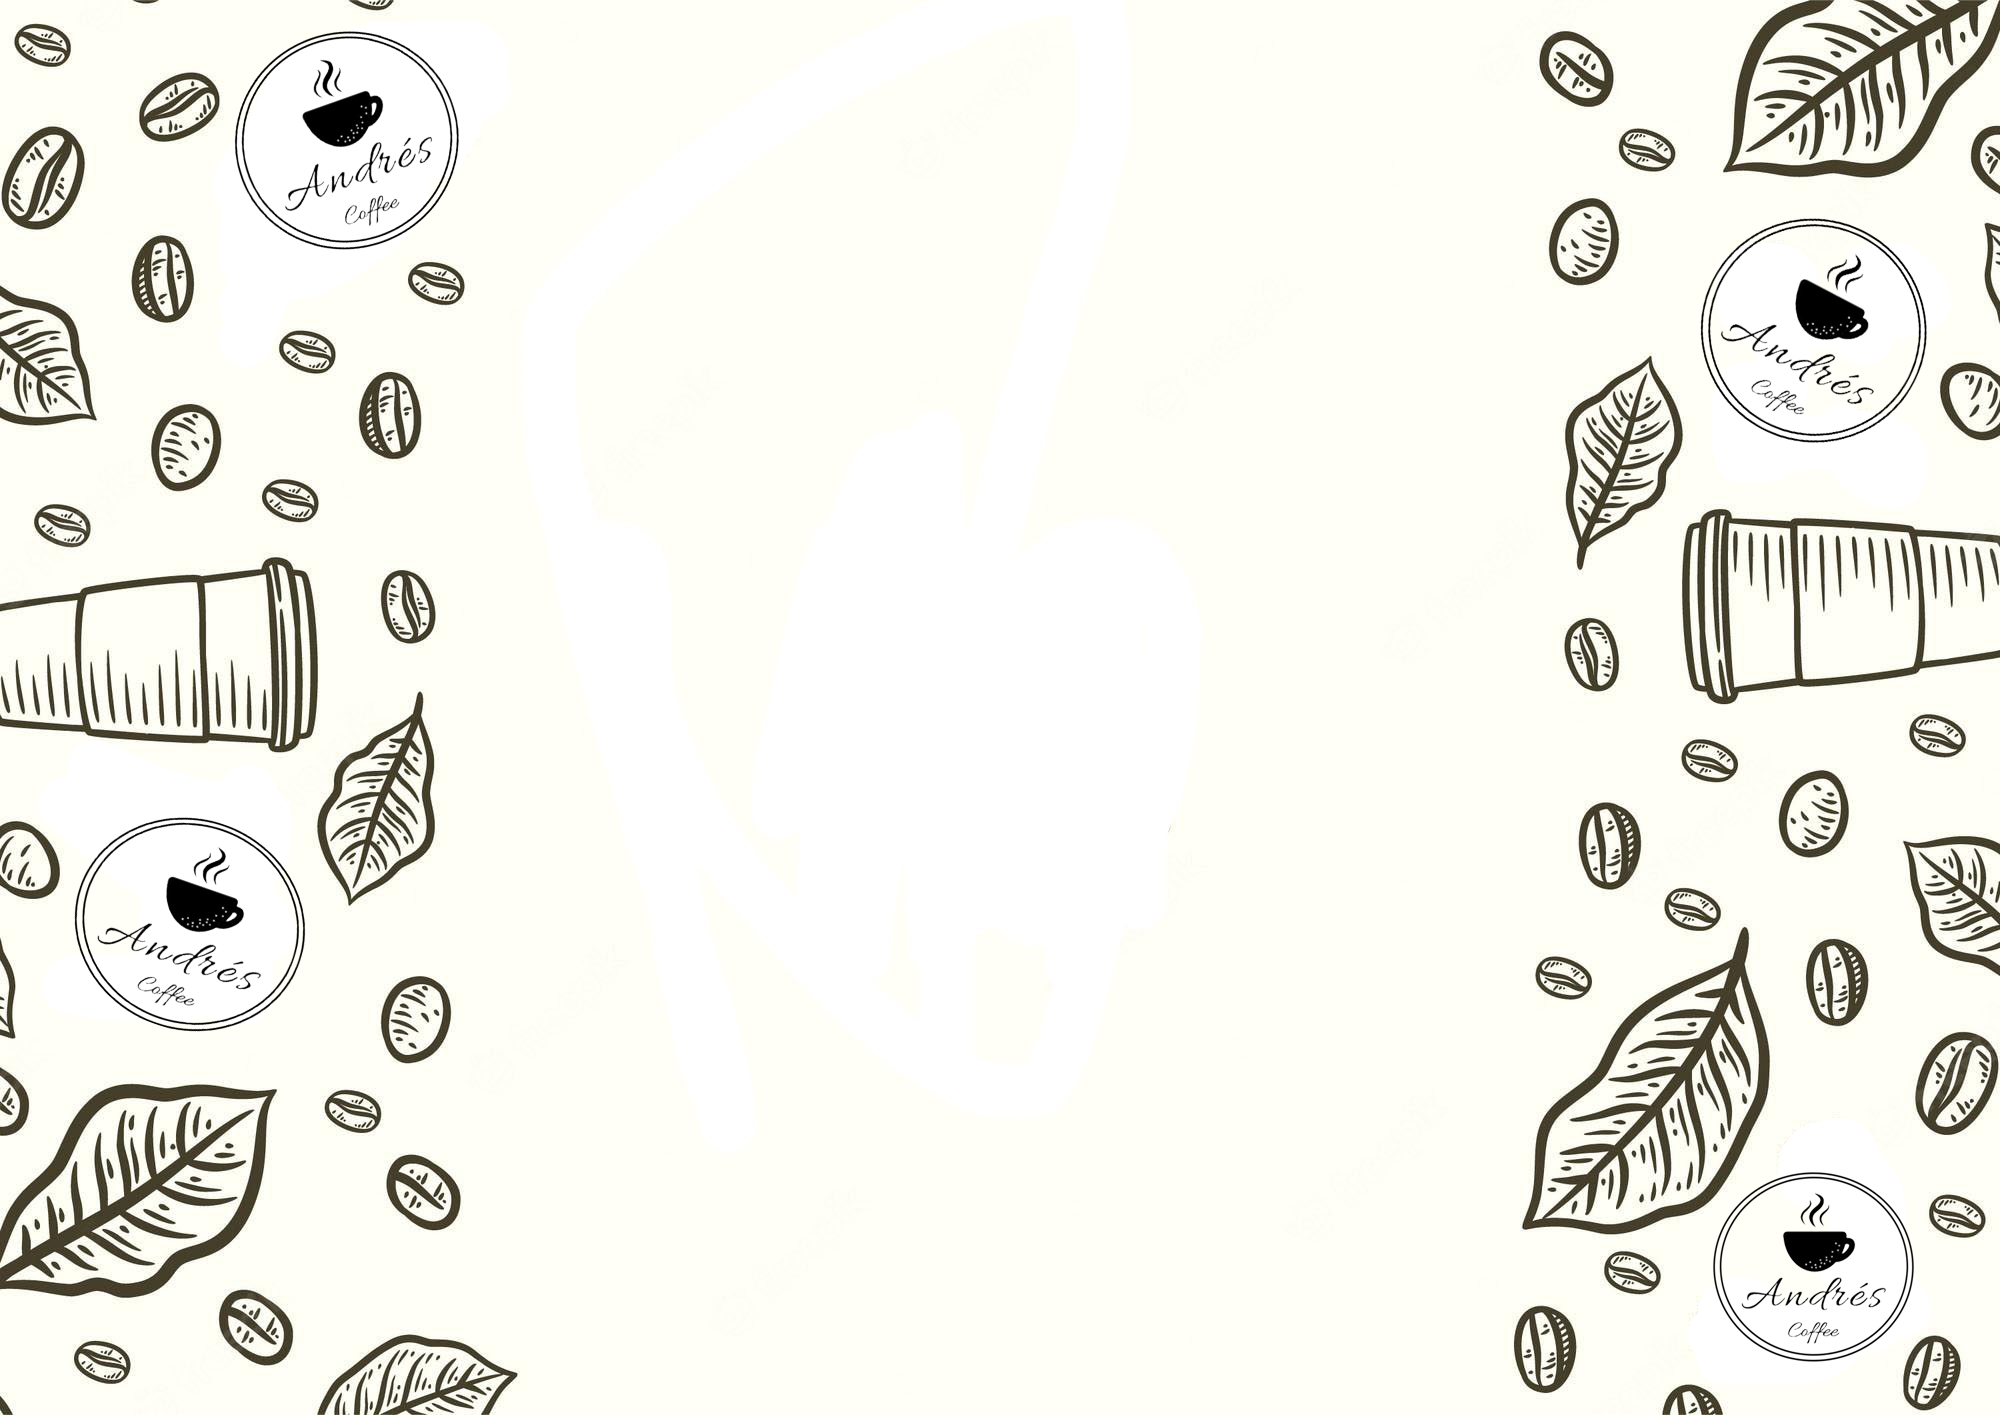
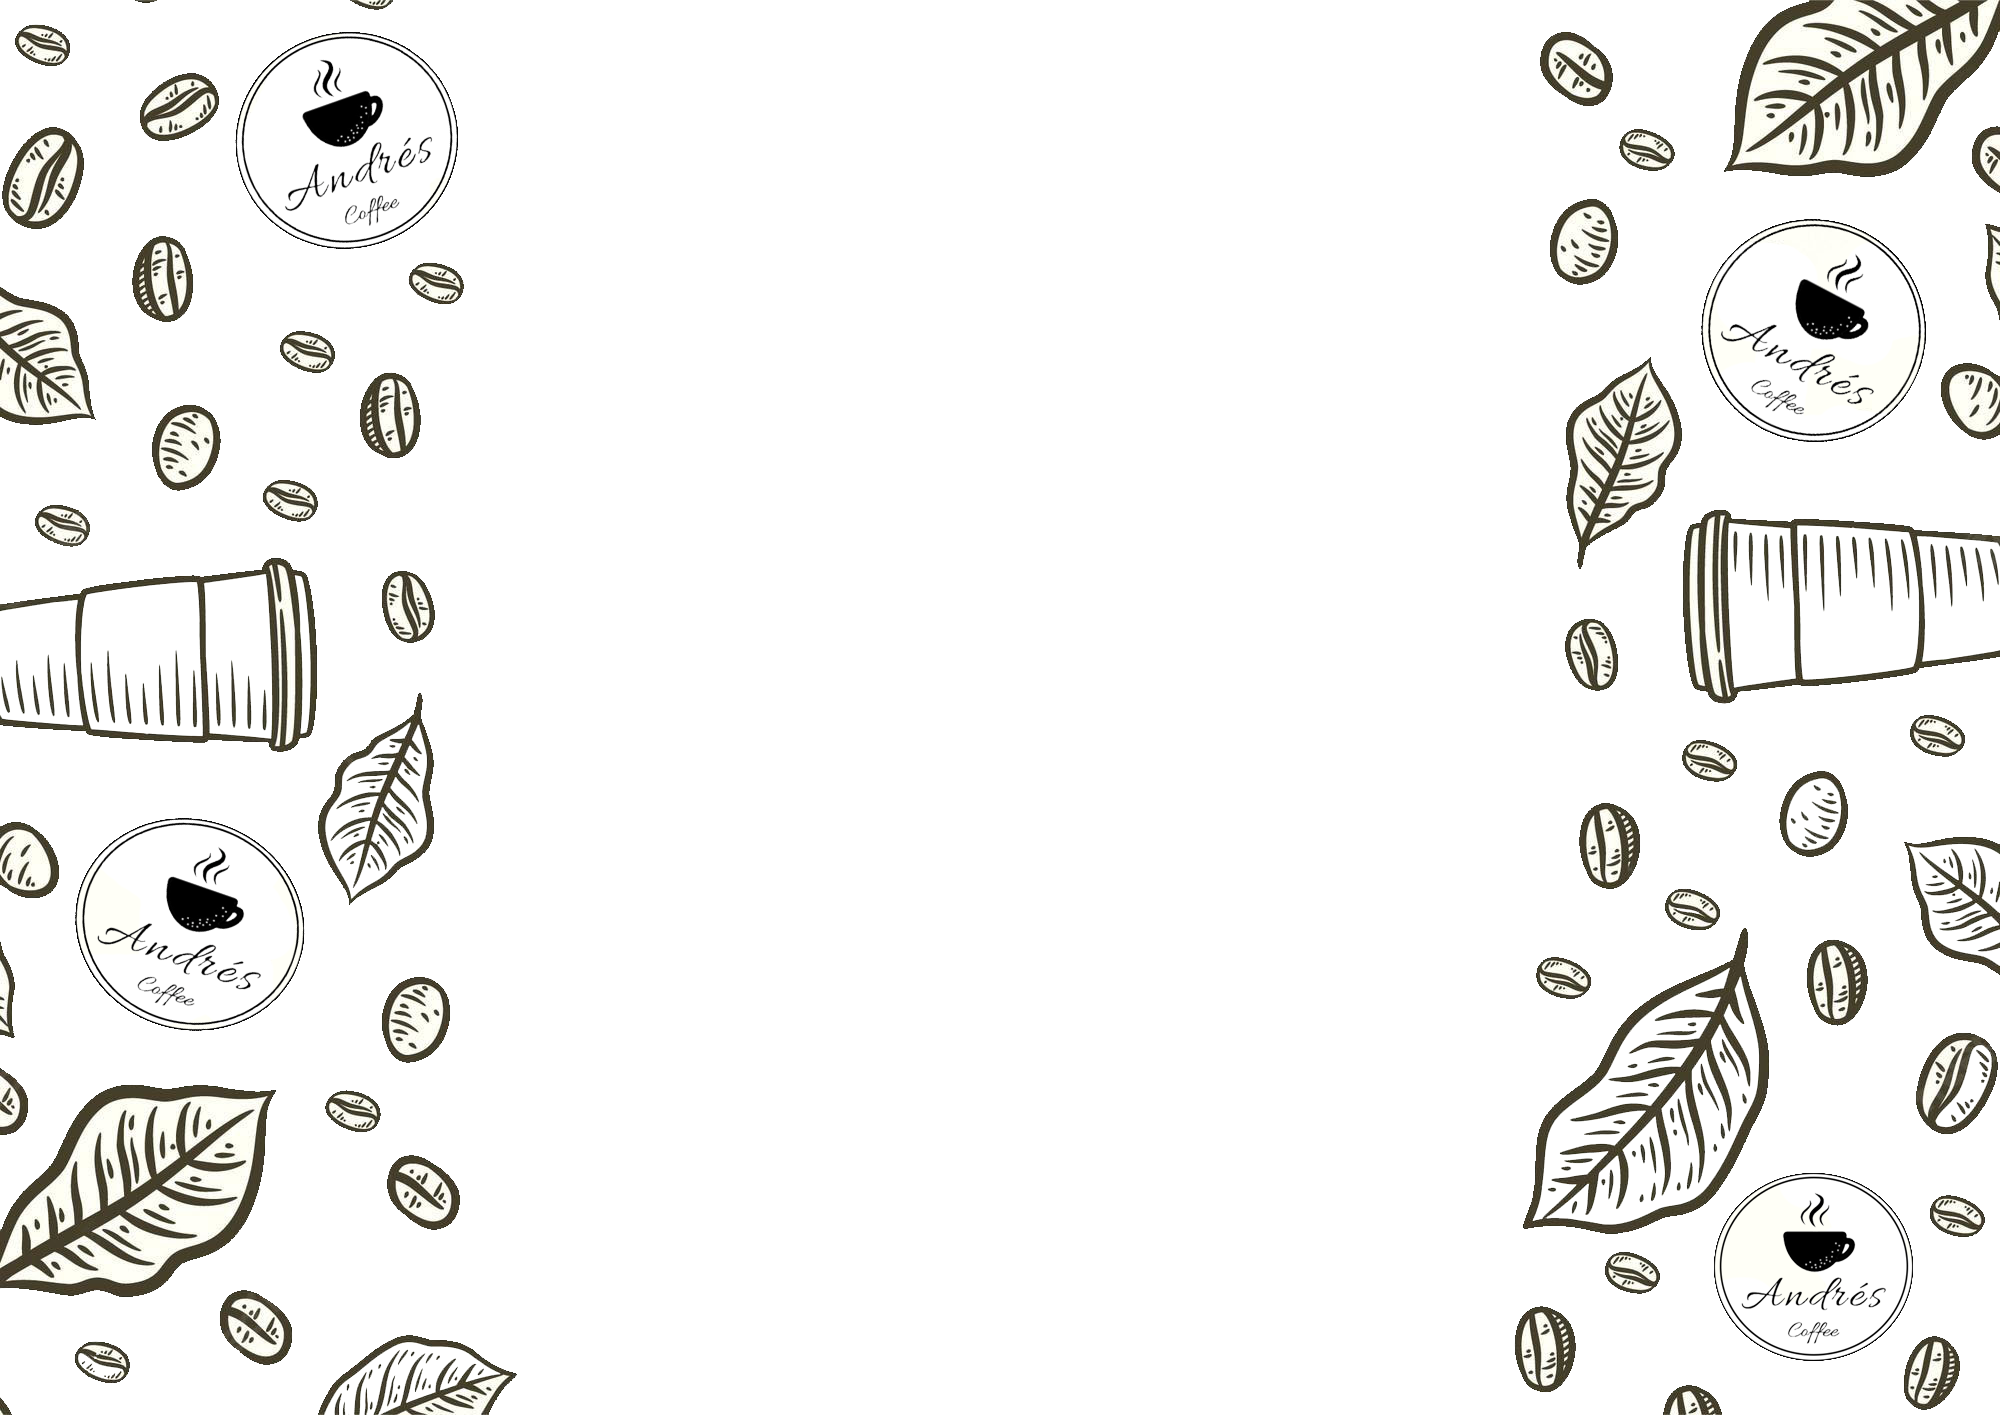
Nuevas hojas de estilos, y cambio de fondos hecho por Angela

diff --git a/public/style_admin.css b/public/style_admin.css
@@ -1,5 +1,5 @@
 body{
-    background-image: url("img/fondo.png");
+    background-image: url("img/fondo_admin.jpeg");
     background-repeat: no-repeat;
     background-attachment: fixed;
     background-size: cover;

diff --git a/public/style_home.css b/public/style_home.css
@@ -1,0 +1,7 @@
+body{
+    background-image: url("img/fondo_inicio.png");
+    background-repeat: no-repeat;
+    background-attachment: fixed;
+    background-size: cover;
+    height: 20em;
+}

diff --git a/public/style_seguridad.css b/public/style_seguridad.css
@@ -1,0 +1,7 @@
+body{
+    background-image: url("img/fondo_seg.jpeg");
+    background-repeat: no-repeat;
+    background-attachment: fixed;
+    background-size: cover;
+    height: 20em;
+}

diff --git a/vista/inicio/inicio.php b/vista/inicio/inicio.php
@@ -13,10 +13,9 @@ if(empty($_SESSION['usuario_login'])){
     <title>Administraciones</title>
     <link href="https://cdn.jsdelivr.net/npm/bootstrap@5.2.1/dist/css/bootstrap.min.css" rel="stylesheet" integrity="sha384-iYQeCzEYFbKjA/T2uDLTpkwGzCiq6soy8tYaI1GyVh/UjpbCx/TYkiZhlZB6+fzT" crossorigin="anonymous">
     <script src="https://kit.fontawesome.com/21445fda3d.js" crossorigin="anonymous"></script>
-    <link rel="stylesheet" type="text/css" href="../../public/style_inicio.css">
+    <link rel="stylesheet" type="text/css" href="../../public/style_home.css">
     <link rel="stylesheet" href="administracion_usuarios.css">
     <link rel="shortcut icon" href="../../public/img/Logo.png">
-
 </head>
 
 <body>

diff --git a/vista/administracion/administraciones/administracion_sucursal_promocion/administracion_sucursal_promocion.php b/vista/administracion/administraciones/administracion_sucursal_promocion/administracion_sucursal_promocion.php
@@ -13,7 +13,7 @@ if(empty($_SESSION['usuario_login'])){
     <title>Administración Sucursal Promoción</title>
     <link href="https://cdn.jsdelivr.net/npm/bootstrap@5.2.1/dist/css/bootstrap.min.css" rel="stylesheet" integrity="sha384-iYQeCzEYFbKjA/T2uDLTpkwGzCiq6soy8tYaI1GyVh/UjpbCx/TYkiZhlZB6+fzT" crossorigin="anonymous">
     <script src="https://kit.fontawesome.com/02575225aa.js" crossorigin="anonymous"></script>
-    <link rel="stylesheet" type="text/css" href="../../../../public/style_inicio.css">
+    <link rel="stylesheet" type="text/css" href="../../../../public/style_admin.css">
     <link rel="shortcut icon" href="../../../../public/img/Logo.png">
 </head>
 

diff --git a/vista/administracion/administraciones/administracion_sucursal_promocion/buscar_sucursal_promocion.php b/vista/administracion/administraciones/administracion_sucursal_promocion/buscar_sucursal_promocion.php
@@ -13,7 +13,7 @@ if(empty($_SESSION['usuario_login'])){
     <title>Administración Sucursal Promoción</title>
     <link href="https://cdn.jsdelivr.net/npm/bootstrap@5.2.1/dist/css/bootstrap.min.css" rel="stylesheet" integrity="sha384-iYQeCzEYFbKjA/T2uDLTpkwGzCiq6soy8tYaI1GyVh/UjpbCx/TYkiZhlZB6+fzT" crossorigin="anonymous">
     <script src="https://kit.fontawesome.com/02575225aa.js" crossorigin="anonymous"></script>
-    <link rel="stylesheet" type="text/css" href="../../../../public/style_inicio.css">
+    <link rel="stylesheet" type="text/css" href="../../../../public/style_admin.css">
     <link rel="shortcut icon" href="../../../../public/img/Logo.png">
 </head>
 

diff --git a/vista/administracion/administraciones/administracion_configuracion_cai/administracion_configuracion_cai.php b/vista/administracion/administraciones/administracion_configuracion_cai/administracion_configuracion_cai.php
@@ -13,7 +13,7 @@ if(empty($_SESSION['usuario_login'])){
     <title>Administración Configuración Cai</title>
     <link href="https://cdn.jsdelivr.net/npm/bootstrap@5.2.1/dist/css/bootstrap.min.css" rel="stylesheet" integrity="sha384-iYQeCzEYFbKjA/T2uDLTpkwGzCiq6soy8tYaI1GyVh/UjpbCx/TYkiZhlZB6+fzT" crossorigin="anonymous">
     <script src="https://kit.fontawesome.com/02575225aa.js" crossorigin="anonymous"></script>
-    <link rel="stylesheet" type="text/css" href="../../../../public/style_inicio.css">
+    <link rel="stylesheet" type="text/css" href="../../../../public/style_admin.css">
     <link rel="shortcut icon" href="../../../../public/img/Logo.png">
 
 </head>

diff --git a/vista/administracion/administraciones/administracion_configuracion_cai/buscar_configuracion_cai.php b/vista/administracion/administraciones/administracion_configuracion_cai/buscar_configuracion_cai.php
@@ -13,7 +13,7 @@ if(empty($_SESSION['usuario_login'])){
     <title>Administración Configuración Cai</title>
     <link href="https://cdn.jsdelivr.net/npm/bootstrap@5.2.1/dist/css/bootstrap.min.css" rel="stylesheet" integrity="sha384-iYQeCzEYFbKjA/T2uDLTpkwGzCiq6soy8tYaI1GyVh/UjpbCx/TYkiZhlZB6+fzT" crossorigin="anonymous">
     <script src="https://kit.fontawesome.com/02575225aa.js" crossorigin="anonymous"></script>
-    <link rel="stylesheet" type="text/css" href="../../../../public/style_inicio.css">
+    <link rel="stylesheet" type="text/css" href="../../../../public/style_admin.css">
     <link rel="shortcut icon" href="../../../../public/img/Logo.png">
 
 </head>

diff --git a/vista/administracion/administraciones/administracion_factura_promocion/administracion_factura_promocion.php b/vista/administracion/administraciones/administracion_factura_promocion/administracion_factura_promocion.php
@@ -13,7 +13,7 @@ if(empty($_SESSION['usuario_login'])){
     <title>Administracion Factura Promocion</title>
     <link href="https://cdn.jsdelivr.net/npm/bootstrap@5.2.1/dist/css/bootstrap.min.css" rel="stylesheet" integrity="sha384-iYQeCzEYFbKjA/T2uDLTpkwGzCiq6soy8tYaI1GyVh/UjpbCx/TYkiZhlZB6+fzT" crossorigin="anonymous">
     <script src="https://kit.fontawesome.com/02575225aa.js" crossorigin="anonymous"></script>
-    <link rel="stylesheet" type="text/css" href="../../../../public/style_inicio.css">
+    <link rel="stylesheet" type="text/css" href="../../../../public/style_admin.css">
     <link rel="shortcut icon" href="../../../../public/img/Logo.png">
 </head>
 

diff --git a/vista/administracion/administraciones/administracion_factura_promocion/buscar_factura_promocion.php b/vista/administracion/administraciones/administracion_factura_promocion/buscar_factura_promocion.php
@@ -13,7 +13,7 @@ if(empty($_SESSION['usuario_login'])){
     <title>Administracion Factura Promocion</title>
     <link href="https://cdn.jsdelivr.net/npm/bootstrap@5.2.1/dist/css/bootstrap.min.css" rel="stylesheet" integrity="sha384-iYQeCzEYFbKjA/T2uDLTpkwGzCiq6soy8tYaI1GyVh/UjpbCx/TYkiZhlZB6+fzT" crossorigin="anonymous">
     <script src="https://kit.fontawesome.com/02575225aa.js" crossorigin="anonymous"></script>
-    <link rel="stylesheet" type="text/css" href="../../../../public/style_inicio.css">
+    <link rel="stylesheet" type="text/css" href="../../../../public/style_admin.css">
     <link rel="shortcut icon" href="../../../../public/img/Logo.png">
 </head>
 

diff --git a/vista/administracion/administraciones/administracion_parametros/administracion_parametros.php b/vista/administracion/administraciones/administracion_parametros/administracion_parametros.php
@@ -13,7 +13,7 @@ if(empty($_SESSION['usuario_login'])){
     <title>Administración Parámetros</title>
     <link href="https://cdn.jsdelivr.net/npm/bootstrap@5.2.1/dist/css/bootstrap.min.css" rel="stylesheet" integrity="sha384-iYQeCzEYFbKjA/T2uDLTpkwGzCiq6soy8tYaI1GyVh/UjpbCx/TYkiZhlZB6+fzT" crossorigin="anonymous">
     <script src="https://kit.fontawesome.com/02575225aa.js" crossorigin="anonymous"></script>
-    <link rel="stylesheet" type="text/css" href="../../../../public/style_inicio.css">
+    <link rel="stylesheet" type="text/css" href="../../../../public/style_seguridad.css">
     <link rel="shortcut icon" href="../../../../public/img/Logo.png">
 
 </head>

diff --git a/vista/administracion/administraciones/administracion_parametros/buscar_parametros.php b/vista/administracion/administraciones/administracion_parametros/buscar_parametros.php
@@ -13,7 +13,7 @@ if(empty($_SESSION['usuario_login'])){
     <title>Administración Parámetros</title>
     <link href="https://cdn.jsdelivr.net/npm/bootstrap@5.2.1/dist/css/bootstrap.min.css" rel="stylesheet" integrity="sha384-iYQeCzEYFbKjA/T2uDLTpkwGzCiq6soy8tYaI1GyVh/UjpbCx/TYkiZhlZB6+fzT" crossorigin="anonymous">
     <script src="https://kit.fontawesome.com/02575225aa.js" crossorigin="anonymous"></script>
-    <link rel="stylesheet" type="text/css" href="../../../../public/style_inicio.css">
+    <link rel="stylesheet" type="text/css" href="../../../../public/style_seguridad.css">
     <link rel="shortcut icon" href="../../../../public/img/Logo.png">
 
 </head>
